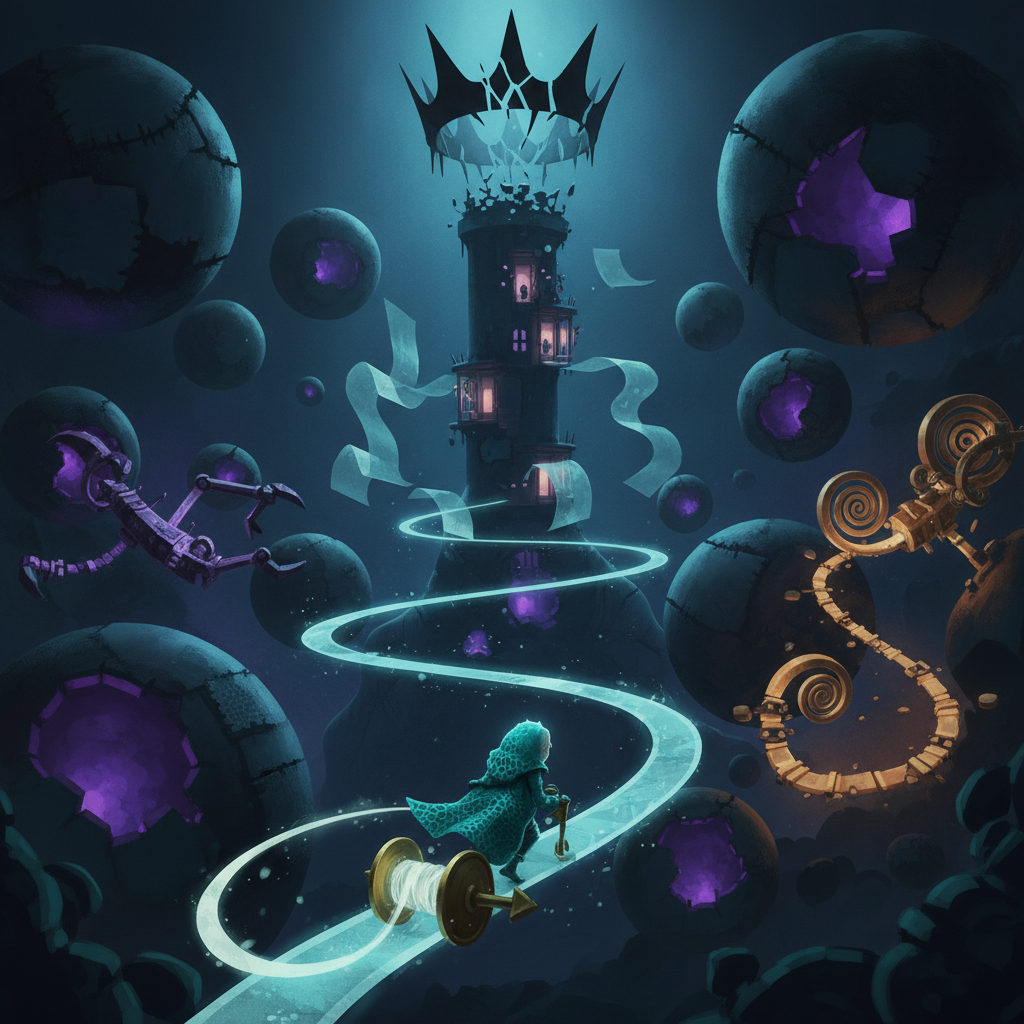
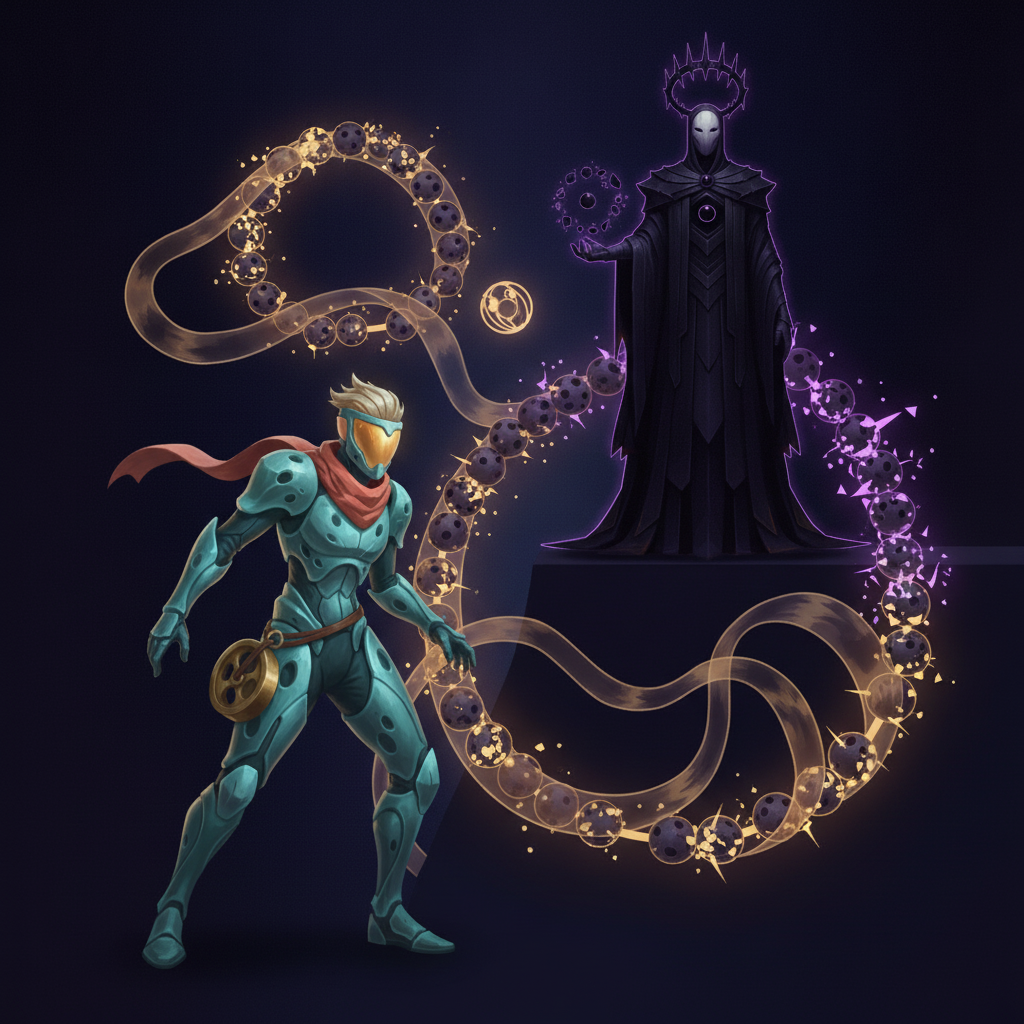
Redo cover: Gyroid vs Count Null with character refs

diff --git a/index.html b/index.html
@@ -424,7 +424,7 @@
       <img
         id="cover-image"
         src="./assets/cover.png"
-        alt="Winding World cover art"
+        alt="Winding World — Gyroid facing Count Null"
         width="1600"
         height="900"
       />
